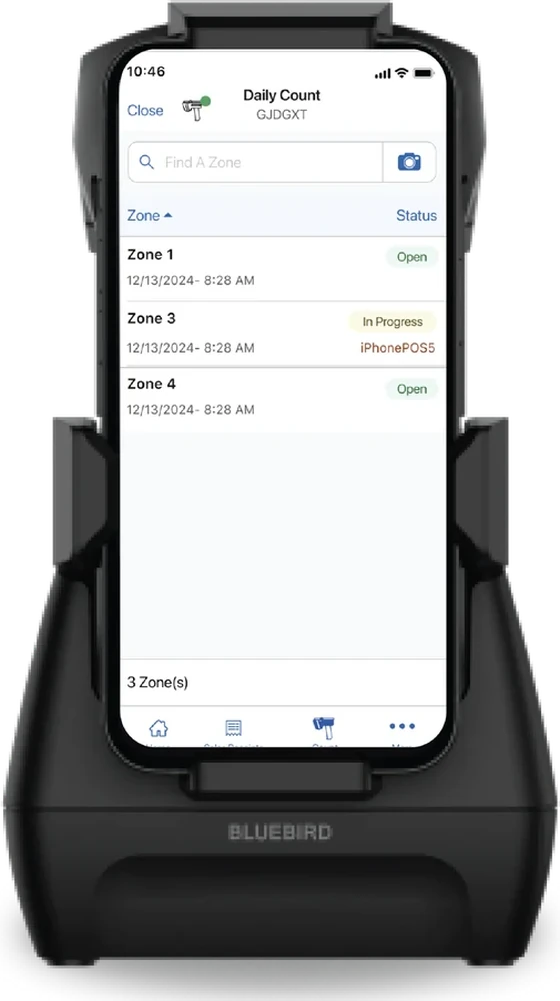
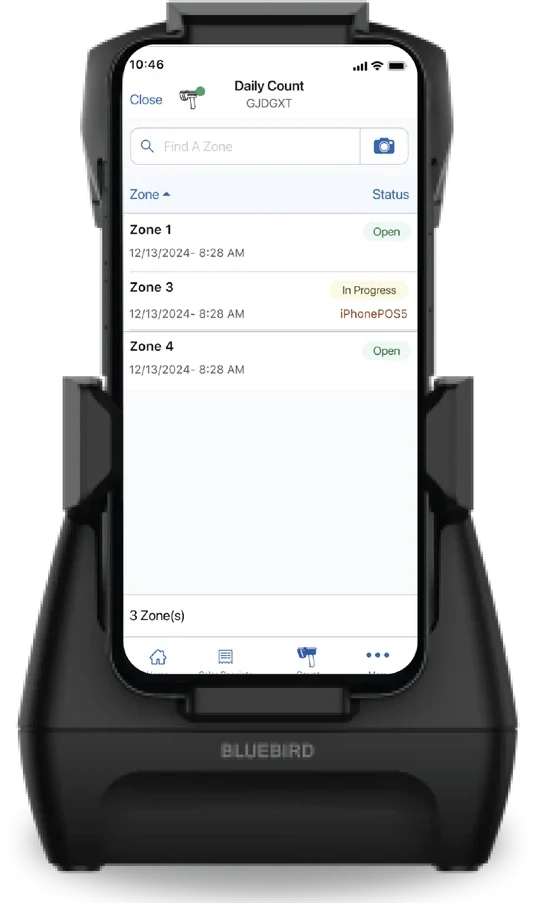
One Unified Tech Stack landing page rebuilt at /one-unified-tech-stack/ (hero tiles, stack comparison, sourced numbers and quote, demo form); its redirect retired. RFID handheld image replaced with the full uncropped unit. Counters format thousands

diff --git a/teamwork-cms/src/assets/css/style.css b/teamwork-cms/src/assets/css/style.css
@@ -10433,3 +10433,104 @@ main[data-vertical] .tm-day-time { color: color-mix(in srgb, var(--v-accent) 80%
 .legal-body ol { margin: 0 0 16px; padding-left: 26px; }
 .legal-body ol li { margin-bottom: 8px; }
 .legal-body a { color: var(--brand-text); }
+
+/* ============ ONE UNIFIED TECH STACK (.stk) ============
+   Rebuild of the old WordPress landing page. Hero tiles drift like the original; the
+   comparison puts the stitched stack beside the one-platform cluster. */
+.stk-hero { padding: 56px 0 72px; overflow: hidden; }
+.stk-hero-grid { position: relative; z-index: 1; display: grid; grid-template-columns: minmax(0, 1fr) minmax(0, 1fr); gap: 48px; align-items: center; }
+/* .hero .stk-h1 so the generic .hero h1 rule (96px) does not win */
+.hero .stk-h1 { margin: 18px 0 18px; font-size: clamp(38px, 5.2vw, 64px); font-weight: 600; letter-spacing: -0.04em; line-height: 1.02; color: #ffffff; }
+.hero .stk-h1 .callout { color: #6aa8ff; }
+.stk-sub { font-size: 18px; line-height: 1.6; color: rgba(255,255,255,0.78); max-width: 520px; margin: 0 0 28px; }
+.stk-cta { justify-content: flex-start; margin: 0; }
+
+.stk-tiles { position: relative; height: 420px; }
+.stk-tile {
+  position: absolute; width: 150px; height: 150px; border-radius: 24px;
+  display: flex; flex-direction: column; align-items: center; justify-content: center; gap: 10px;
+  background: var(--bg-elevated); border: 1px solid var(--border); box-shadow: var(--shadow-lg);
+  font-size: 15px; font-weight: 600; color: var(--text); animation: stk-drift 7s ease-in-out infinite;
+}
+.stk-tile i { font-size: 34px; }
+.stk-tile-1 { left: 10%; top: 6%; transform: rotate(-7deg); }
+.stk-tile-2 { right: 8%; top: 12%; transform: rotate(6deg); animation-delay: -2s; }
+.stk-tile-3 { left: 6%; bottom: 10%; transform: rotate(4deg); animation-delay: -4s; }
+.stk-tile-4 { right: 12%; bottom: 4%; transform: rotate(-5deg); animation-delay: -1s; }
+@keyframes stk-drift { 0%, 100% { translate: 0 0; } 50% { translate: 0 -10px; } }
+@media (prefers-reduced-motion: reduce) { .stk-tile { animation: none; } }
+
+.stk-flag {
+  display: inline-flex; align-items: center; gap: 7px; padding: 6px 12px; border-radius: 100px;
+  font-family: var(--font-mono); font-size: 10.5px; font-weight: 700; letter-spacing: 0.08em; text-transform: uppercase; white-space: nowrap;
+}
+.stk-flag i { width: 6px; height: 6px; border-radius: 50%; background: currentColor; }
+.stk-flag-amber { background: #f5b63a; color: #3a2600; }
+.stk-flag-red { background: #e5473c; color: #fff; }
+.stk-flag-grey { background: var(--bg-deep); color: var(--text-muted); border: 1px solid var(--border); }
+.stk-flag-redline { background: transparent; color: #d9432f; border: 1px solid rgba(217,67,47,0.45); }
+.stk-tiles .stk-flag { position: absolute; z-index: 2; box-shadow: var(--shadow-md); }
+.stk-flag-a { left: 2%; top: 0; transform: rotate(-6deg); }
+.stk-flag-b { right: 0; top: 4%; transform: rotate(5deg); }
+.stk-flag-c { left: 0; bottom: 6%; transform: rotate(-4deg); }
+.stk-flag-d { right: 2%; bottom: 0; transform: rotate(6deg); }
+
+.stk-compare { display: grid; grid-template-columns: 0.85fr 1.15fr; gap: 24px; align-items: stretch; }
+.stk-panel { position: relative; padding: 32px; border-radius: 22px; background: var(--bg-elevated); border: 1px solid var(--border); }
+.stk-panel-new { border: 1px solid var(--border); border-top: 3px solid var(--brand-blue); }
+.stk-panel-eyebrow { font-family: var(--font-mono); font-size: 11px; font-weight: 600; letter-spacing: 0.08em; text-transform: uppercase; color: var(--text-muted); margin-bottom: 10px; }
+.stk-panel-eyebrow.is-brand { color: var(--brand-text); }
+.stk-panel h3 { margin: 0 0 22px; font-size: 22px; font-weight: 600; letter-spacing: -0.02em; color: var(--text); }
+.stk-panel > p { margin: 22px 0 0; font-size: 14.5px; line-height: 1.6; color: var(--text-muted); }
+.stk-vendors { list-style: none; margin: 0; padding: 0; display: flex; flex-direction: column; gap: 12px; }
+.stk-vendors li { display: flex; align-items: center; justify-content: space-between; gap: 12px; padding: 14px 16px; border-radius: 12px; border: 1px dashed var(--border-strong); }
+.stk-vendors b { display: block; font-size: 15px; color: var(--text); }
+.stk-vendors em { display: block; font-style: normal; font-size: 13px; color: var(--text-muted); margin-top: 2px; }
+
+.stk-cluster { position: relative; height: 430px; }
+.stk-phone { position: absolute; left: 50%; top: 10px; width: 230px; height: auto; transform: translateX(-50%); filter: drop-shadow(0 28px 44px rgba(11,14,20,0.22)); }
+.stk-chip {
+  position: absolute; display: flex; flex-direction: column; gap: 4px; padding: 12px 16px; border-radius: 14px;
+  background: var(--bg-elevated); border: 1px solid var(--border); box-shadow: var(--shadow-lg); z-index: 2;
+}
+.stk-chip small { font-family: var(--font-mono); font-size: 10px; font-weight: 700; letter-spacing: 0.08em; text-transform: uppercase; color: var(--text-muted); }
+.stk-chip b { display: inline-flex; align-items: center; gap: 8px; font-size: 14px; font-weight: 600; color: var(--text); }
+.stk-chip em { font-style: normal; font-size: 12.5px; color: var(--text-muted); }
+.stk-dot { width: 8px; height: 8px; border-radius: 50%; background: #2fb457; }
+.stk-chip-inv { left: 0; top: 100px; transform: rotate(-4deg); }
+.stk-chip-ord { right: 0; top: 60px; background: var(--brand-blue); border-color: transparent; color: #fff; transform: rotate(3deg); }
+.stk-chip-ord small, .stk-chip-ord b { color: #fff; }
+.stk-chip-pay { right: 4%; top: 170px; flex-direction: row; align-items: center; gap: 14px; transform: rotate(-3deg); }
+.stk-amount { font-family: var(--font-mono); font-size: 15px; color: var(--brand-text); }
+.stk-pay { padding: 8px 16px; border-radius: 100px; background: #2fb457; color: #fff !important; font-size: 12px; letter-spacing: 0.04em; }
+.stk-chip-an { left: 2%; bottom: 40px; transform: rotate(3deg); }
+.stk-chip-an b { font-size: 20px; }
+.stk-chip-an em { color: #2fb457; font-weight: 600; }
+.stk-chip-gift { right: 2%; bottom: 20px; transform: rotate(-5deg); }
+
+.stk-band .tm-stat-grid { margin-bottom: 40px; }
+.stk-quote { max-width: 820px; margin: 0 auto; padding-left: 22px; border-left: 3px solid var(--brand-blue); }
+.stk-quote blockquote { margin: 0 0 12px; font-size: clamp(19px, 2.2vw, 26px); font-weight: 600; letter-spacing: -0.02em; line-height: 1.35; color: var(--text); }
+.stk-quote figcaption { font-size: 14px; color: var(--text-muted); }
+.stk-quote figcaption strong { color: var(--text); margin-right: 6px; }
+.stk-quote a { color: var(--brand-text); font-weight: 600; }
+
+.stk-demo .demox-sub { margin-top: 24px; }
+.stk-ipad { display: block; width: 100%; max-width: 520px; height: auto; margin: 26px 0 0; }
+.stk-demo .demox-points { margin-top: 22px; gap: 12px; }
+.stk-demo .demox-points > li > i { color: var(--brand-blue); }
+
+@media (max-width: 980px) {
+  .stk-hero-grid { grid-template-columns: 1fr; gap: 32px; }
+  .stk-tiles { height: 340px; max-width: 420px; margin: 0 auto; width: 100%; }
+  .stk-tile { width: 120px; height: 120px; font-size: 13.5px; }
+  .stk-tile i { font-size: 28px; }
+  .stk-compare { grid-template-columns: 1fr; }
+}
+@media (max-width: 520px) {
+  .stk-cluster { height: 400px; }
+  .stk-phone { width: 190px; }
+  .stk-chip { padding: 10px 12px; }
+  .stk-chip-an b { font-size: 17px; }
+  .stk-tiles .stk-flag { font-size: 9.5px; padding: 5px 10px; }
+}
